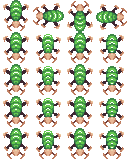
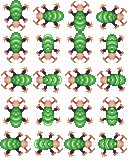
bug bug fix

Changed region(s): [[0.0, 0.4062, 1.0, 1.0]]

diff --git a/src/main/java/my_project/model/modes/planet/entity/EntityPlayer.java b/src/main/java/my_project/model/modes/planet/entity/EntityPlayer.java
@@ -42,7 +42,7 @@ public class EntityPlayer extends Entity<PlayerAnimationState> {
                 height
         );
         this.direction = EntityDirection.DOWN;
-        this.health = 100;
+        this.health = 150;
     }
 
     @Override
